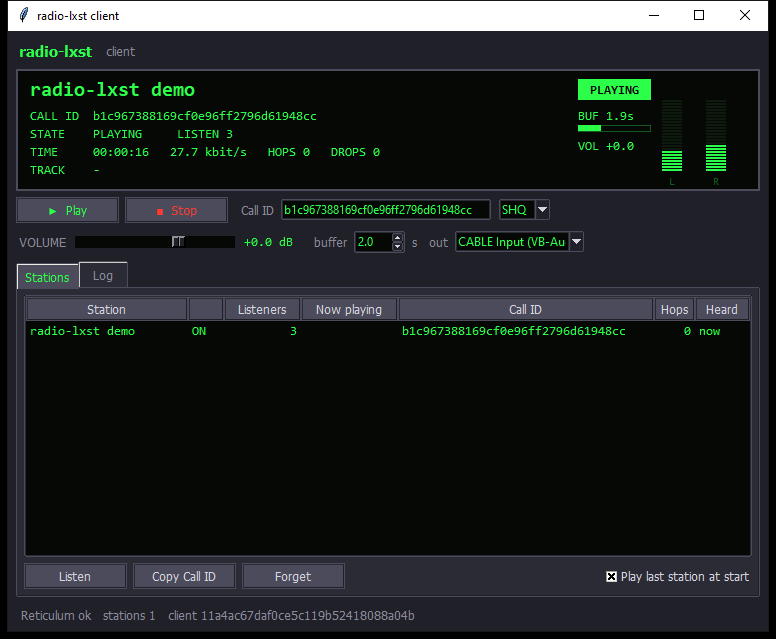
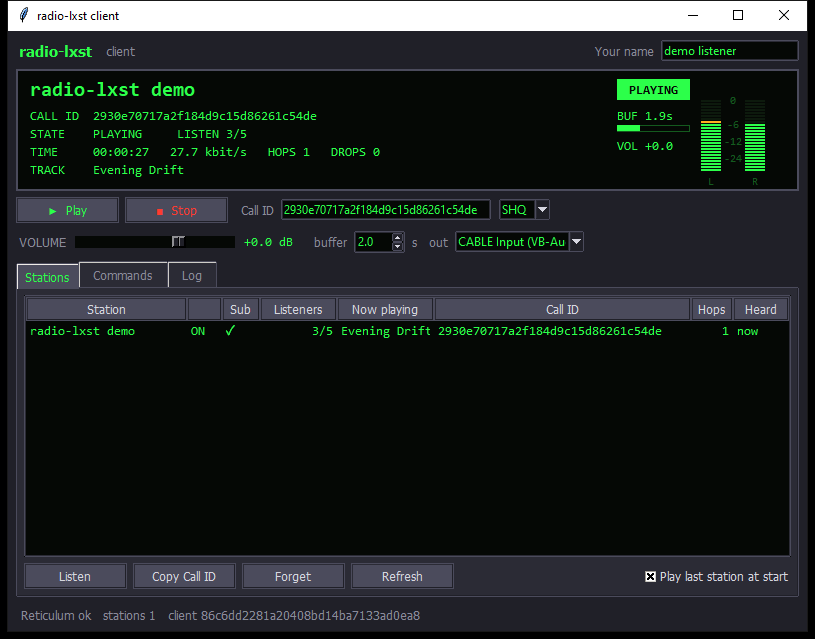
New screenshots, two client fixes

diff --git a/radio_client_gui.py b/radio_client_gui.py
@@ -458,6 +458,10 @@ class App:
         if self.tick % 8 == 0 or self.dir_dirty:
             self.dir_dirty = False
             st = self.dir.stations.get(snap["call_id"])
+            if st is None and snap["state"] == "playing" and snap["listeners"] is not None:
+                # tuned in by Call ID before hearing its announce: it goes in the list too
+                st = self.dir.stations[snap["call_id"]] = rc.Station(snap["call_id"], snap["name"])
+                self.dir.save()
             if st and snap["state"] == "playing" and snap["listeners"] is not None:
                 # keep the list in step with what the station tells us in the call
                 st.name = snap["name"] or st.name

diff --git a/radio_client.py b/radio_client.py
@@ -712,7 +712,7 @@ class Client:
 def load_identity(path):
     if os.path.isfile(path):
         return RNS.Identity.from_file(path)
-    os.makedirs(os.path.dirname(path), exist_ok=True)
+    os.makedirs(os.path.dirname(os.path.abspath(path)), exist_ok=True)  # a bare file name too
     ident = RNS.Identity()
     ident.to_file(path)
     return ident

diff --git a/radio_lxst.py b/radio_lxst.py
@@ -861,7 +861,7 @@ class Radio:
 def load_identity(path):
     if os.path.isfile(path):
         return RNS.Identity.from_file(path)
-    os.makedirs(os.path.dirname(path), exist_ok=True)
+    os.makedirs(os.path.dirname(os.path.abspath(path)), exist_ok=True)  # a bare file name too
     ident = RNS.Identity()
     ident.to_file(path)
     return ident

diff --git a/README.md b/README.md
@@ -7,6 +7,7 @@ Version 0.4 · [Reticulum License](LICENSE)
 | Server | Client |
 |---|---|
 | ![server](screenshots/server.png) | ![client](screenshots/client.png) |
+| ![station replies](screenshots/server_replies.png) | ![client commands](screenshots/client_commands.png) |
 
 ## What it does
 
